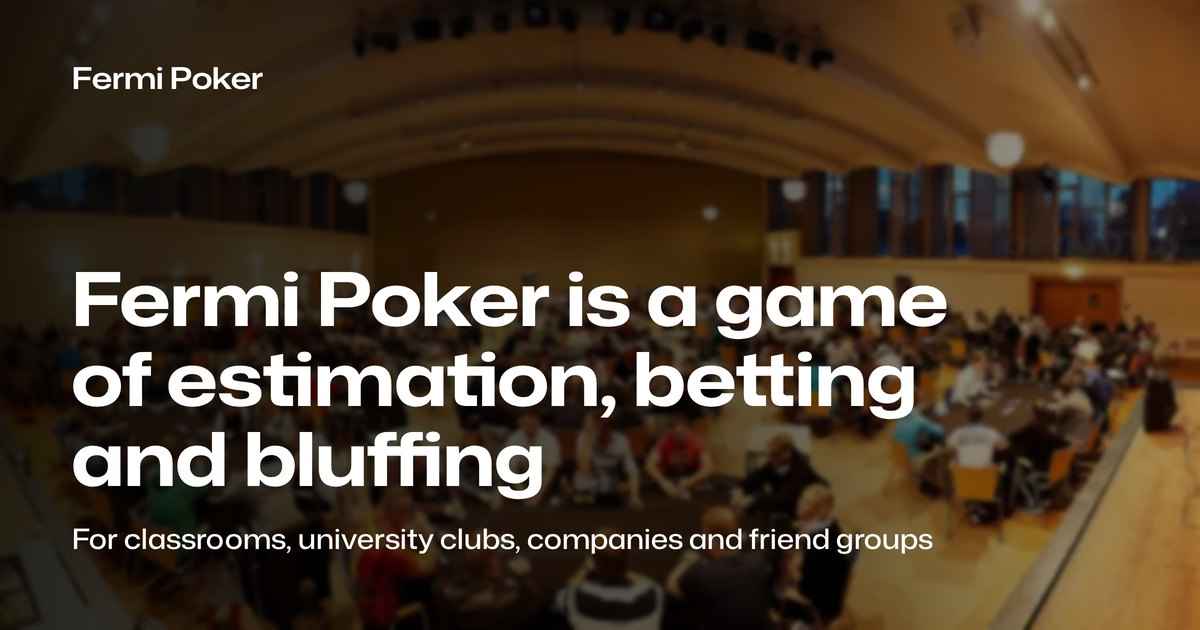
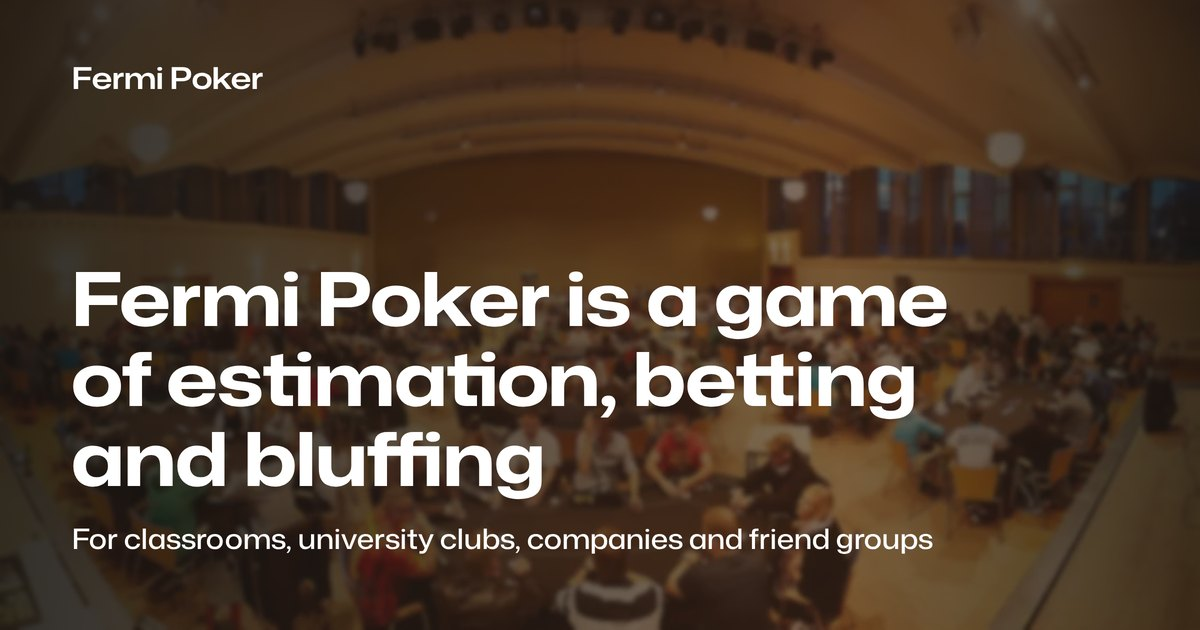
Headers: a warm shade that never clears, on every screen and every page
The footer's charcoal at both edges, darkest on the left behind the words, and a warm brown 70% of the way across,
on the home page's header and the inner pages' alike, phones included, so the special cases for smaller laptops and
tablets are gone. White on it stays at least 5.5:1 behind every line, from 360px to 2560px. The link preview has the
same shade.

Claude-Session: https://claude.ai/code/session_01NwGtuKGjQ6VZWvsDNy6jQf

diff --git a/assets/site.css b/assets/site.css
@@ -266,8 +266,8 @@ html.new-design.menu-open { --page-bg: #fff; }
 .sky__space { height: 190px; }
 
 /* The home page's header: the hall of a poker tournament, blurred so only the room and its tables show, across the
-   whole width (assets/img/poker-hall.webp, credited on the Credits page). A black shade over it is darkest on the
-   left, behind the headline, which is in white with a line under it, and the two buttons under that. */
+   whole width (assets/img/poker-hall.webp, credited on the Credits page), under a warm shade, behind the headline,
+   which is in white with a line under it, and the two buttons under that. */
 .hero {
   --title: clamp(48px, 4.08vw, 65.28px);
   position: relative;
@@ -277,22 +277,15 @@ html.new-design.menu-open { --page-bg: #fff; }
   min-height: clamp(480px, 42.5vw, 680px);
   background: #98693b url(/assets/img/poker-hall.webp) center bottom / cover no-repeat;
 }
-/* The shade: 70% at the left edge, 60% at 40% of the way across, clear at the right edge. White on it stays at
-   least 5:1 behind every line, so it holds further across where the words do, on smaller screens. */
+/* The shade, on every screen and on the inner pages' headers too (.page-hero): the footer's charcoal at both edges,
+   darkest on the left, behind the words, and a warm brown 70% of the way across. It never clears, so white on it
+   stays at least 5.5:1 behind every line, whatever part of the photo is there. */
 .hero::before {
   content: "";
   position: absolute;
   inset: 0;
   z-index: -1;
-  background: linear-gradient(270deg, rgba(0, 0, 0, 0) 0%, rgba(0, 0, 0, 0.6) 60%, rgba(0, 0, 0, 0.7));
-}
-/* Smaller laptops: 60% to 55% of the way across */
-@media (max-width: 1279px) {
-  .hero::before { background: linear-gradient(270deg, rgba(0, 0, 0, 0) 0%, rgba(0, 0, 0, 0.6) 45%, rgba(0, 0, 0, 0.7)); }
-}
-/* Tablets and phones, where the line under the headline runs nearly across: evenly shaded */
-@media (max-width: 899px) {
-  .hero::before { background: rgba(0, 0, 0, 0.72); }
+  background: linear-gradient(90deg, rgba(22, 20, 18, 0.88), rgba(62, 40, 28, 0.66) 70%, rgba(22, 20, 18, 0.82));
 }
 .hero__inner { width: min(1096px, 100% - 48px); margin: 0 auto; padding: 48px 0; }
 .hero__title {
@@ -354,7 +347,7 @@ html.new-design.menu-open { --page-bg: #fff; }
 .home-faq__more:hover { background: #111111; }
 .home-faq__more svg { width: 16px; height: 16px; }
 /* Phones: the headline over the whole width and the buttons under it, each across it, on a strip of the hall from its
-   left edge, evenly shaded */
+   left edge */
 @media (max-width: 700px) {
   .hero {
     --title: min(48px, (100vw - 40px) / 6.65);
@@ -1367,7 +1360,7 @@ html.new-design .link:hover { color: #9c4a17; text-decoration-color: #9c4a17; }
   position: absolute;
   inset: 0;
   z-index: -1;
-  background: linear-gradient(90deg, rgba(0, 0, 0, 0.8), rgba(0, 1, 2, 0.7) 60%, rgba(5, 20, 45, 0));
+  background: linear-gradient(90deg, rgba(22, 20, 18, 0.88), rgba(62, 40, 28, 0.66) 70%, rgba(22, 20, 18, 0.82));
 }
 .page-hero__inner { width: min(1096px, 100% - 48px); margin: 0 auto; padding: 48px 0; }
 .page-hero h1 {
@@ -1453,7 +1446,6 @@ html.guide-page .fn-pop { border-radius: 4px; background: #fff; color: #222; fon
 @media (max-width: 700px) {
   /* On phones as tall as the title needs, with room around it, and the hall from its left edge */
   .page-hero { min-height: 0; background-position-x: left; }
-  .page-hero::before { background: rgba(0, 0, 0, 0.72); }
   .page-hero__inner { width: calc(100% - 40px); padding: 80px 0; }
   .page-hero h1 { font-size: 44px; }
   .doc { padding: 56px 0 80px; }
